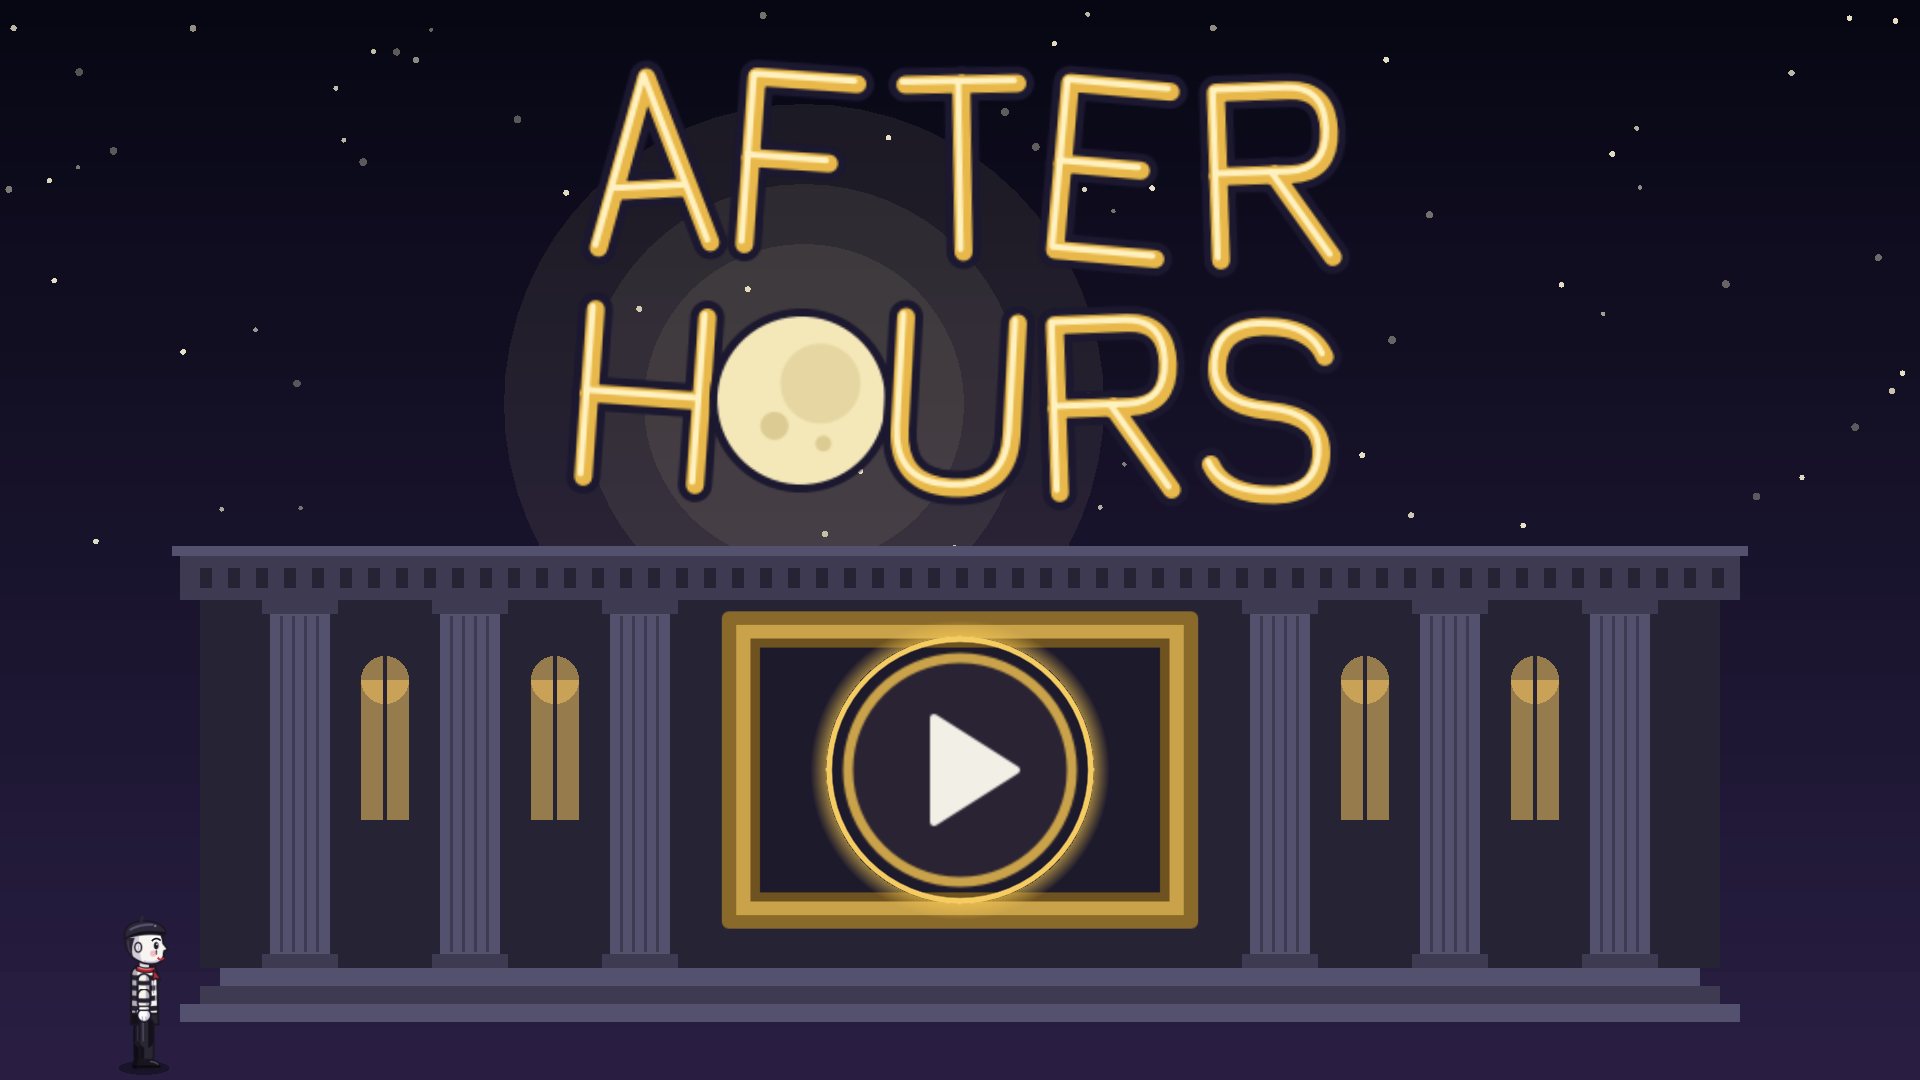
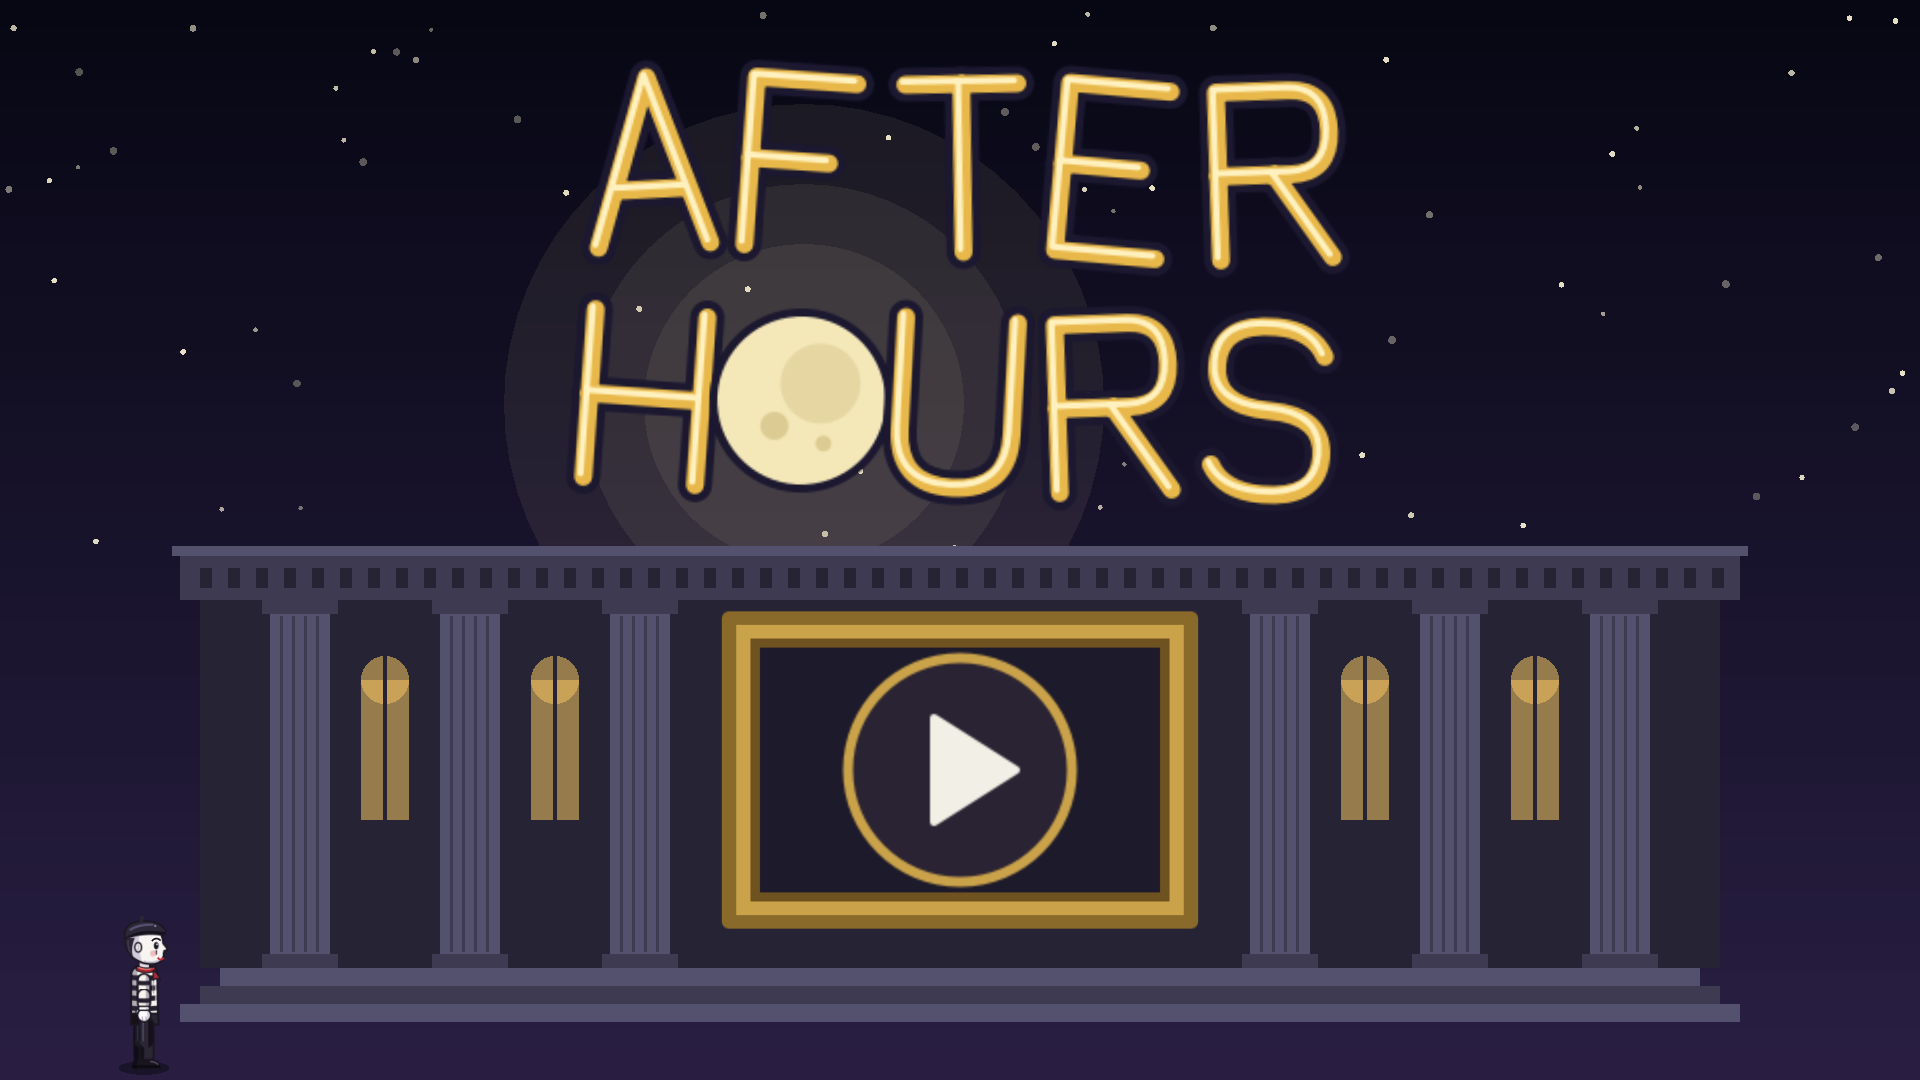
docs: itch.io page link, phone check done, title screenshot without the focus ring
Claude-Session: https://claude.ai/code/session_01LnW7A8GppA7riq12AojToP

Changed region(s): [[0.4062, 0.5806, 0.5938, 0.825], [0.4688, 0.825, 0.5312, 0.8556]]

diff --git a/SUBMISSION.md b/SUBMISSION.md
@@ -2,6 +2,7 @@
 
 The page text for the itch.io page and the jam entry for
 **Jamference: AI Game Jam Hack 3** (https://itch.io/jam/jamference-ai-game-jam-hack-3).
+The game's page: https://linostar.itch.io/after-hours.
 Everything between the two rules below is the public page; paste it as is.
 
 ## Upload settings
@@ -104,7 +105,7 @@ Mild cartoon theft, no flashing, no gore. Alarm and danger effects pulse slowly 
 
 - Upload `build/afterhours.zip` from a fresh `tools/build_web.sh` run on the final commit.
 - Play the uploaded page in a private window on desktop: the game is framed with no odd letterbox bars, fullscreen works, and the music starts by your first click.
-- On a real **iPhone (Safari)** and a real **Android phone (Chrome)**, play the itch page through wing 1 (jam plan, criterion 40):
+- On a real **iPhone (Safari)** and a real **Android phone (Chrome)**, play the itch page through wing 1 (jam plan, criterion 40; done by the developer on 2026-11-06):
   - The sound is on by your first tap (the iPhone's silent switch can mute it).
   - Turning the phone to portrait shows the rotate-phone icon and pauses; landscape resumes.
   - Tapping, tracing the forgery and the pause button all follow your finger; pull-to-refresh, double-tap zoom, text selection and long-press menus never trigger.

diff --git a/README.md b/README.md
@@ -4,7 +4,7 @@ A silent mime sneaks into a museum after dark, paints a forgery of each of six p
 masterpieces, swaps it for the original and escapes. Jam entry for Jamference: AI Game Jam Hack 3
 (theme "Great Works of Art", restriction "No Text"). Godot 4.7.1, web (desktop and mobile, landscape).
 
-**Play:** <!-- TODO: itch.io page link -->
+**Play:** https://linostar.itch.io/after-hours
 
 ## Controls
 
